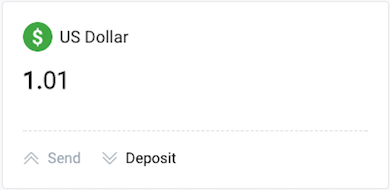
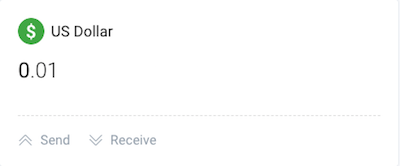
Updates

Changed region(s): [[0.0308, 0.0904, 0.3385, 0.2711], [0.0308, 0.7831, 0.4615, 0.8735], [0.0308, 0.3614, 0.1846, 0.4819]]

diff --git a/ru/waves-client/transfers-and-gateways/eur-usd-transfers.md b/ru/waves-client/transfers-and-gateways/eur-usd-transfers.md
@@ -1,34 +1,37 @@
-# How to send and receive fiat money (EUR, USD)
+# **Как ввести или вывести EUR/USD**.
 
-## How to register in the Euro/USD gateways
+Waves Lite client позволяет хранить и переводить евро и доллары с помощью Waves блокчейна. Данный сервис предоставляется через централизованный Waves сервис.
+Euro/USD переводятся через банковский перевод (SEPA/Wire transfer), затем пользователь получает токен wEURO/wUSD по средствам Waves блокчейна. Токен wEURO/wUSD эквивалентен реальному Euro/USD.
 
-The verification process is handled by [IDnow](https://www.idnow.eu/) service.
+## **Как зарегистрироваться в EURO или USD шлюзе**.
 
-First of all, you should check that your country is eligible for verification and which document is needed. You will find all these information [here](https://wavesplatform.userecho.com/topics/1304-list-of-accepted-countries-and-documents-for-verification/).
+Процесс верификации выполняется на стороне [IDnow](https://www.idnow.eu/) верификатора.
 
-Open your wallet, on the main page click on the **Deposit** button in the EURO / USD sections, then click on your personal link Get verified button.
+Прежде чем начать процесс верификации, пожалуйста проверьте [список](https://wavesplatform.userecho.com/topics/1304-list-of-accepted-countries-and-documents-for-verification/) поддерживаемых стран и принимаемые виды документов.
 
-![](/_assets/fiat_transfers_01.png)
+Откройте ваше Waves приложение, на главной странице нажмите на кнопку **Получить**. Затем выбирите раздел **Банк** и нажмите на свою персональную ссылку, кнопка **Пройти идентификацию**.
 
-![](/_assets/fiat_transfers_02.png)
+![](/ru/_assets/fiat_transfers_01.png)
 
-A Website will open in your browser. Asking you to enter personal information.
+![](/ru/_assets/fiat_transfers_02.png)
 
-![](/_assets/fiat_transfers_03.png)
+В вашем браузере откроется веб-сайт на котором необходимо ввести личную информацию.
 
-Enter the form with your ID information and submit it. After that, this page will open. you will have to choose between webcam or mobile app to make a face-to-face interview.
+![](/ru/_assets/fiat_transfers_03.png)
 
-![](/_assets/fiat_transfers_04.png)
+Заполните форму с вашим ID/паспортом и отправьте ее. После этого откроется следующая страница. Выберите верификацию Computer & webcam.
 
-Once you have chosen and logged in you will have to wait that an Indow's collaborator takes you for a face-to-face. He will ask you some information about you and verify the authenticity of your ID documents.
+**Важно**: Для прохождения верификации требуются исправная вэбкамера и микрофон.
 
-**You will need to have your ID with you during the interview**.
+![](/ru/_assets/fiat_transfers_04.png)
 
-Once it's done you will have to enter a personal code send to you. And confirm the end of the interview.
-And it's done, you will have to wait 2 or 3 days for the confirmation process to be completed.
-You will be notified by e-mail when you will be eligible for Euro/USD gateway. It will be sent from support@coinomat.com and looked like that:
+После того, как вы произвели выбор и осуществили вход, вам необходимо подождать пока сотрудник Idnow не пригласит вас на личное собеседование. Он попросит вас предоставить некоторую дополнительную информацию о вас и проверит подлинность предъявляемых идентификационных документов.
 
-**E-mail confirmation**
+После этого вам необходимо ввести персональный код, который был выслан вам ранее, и подтвердить окончание интервью, вам придется подождать 2 или 3 дня, для завершения процесса подтверждения.
+
+**Важно**: Письма с подтверждением прохождения верификации и данными для ввода будут отправлены с support@coinomat.com.
+
+**E-mail подтверждение:**
 
 ```
 Object:
@@ -79,18 +82,24 @@ Best regards,
 Coinomat Support
 ```
 
-Verify that your e-mail comes from the right source - **support@coinomat.com** and the object is **IDnow <your Waves adress>**.
+Убедитесь, вы получили электронное письмо от support@coinomat.com а тема - IDnow <ваш Waves адрес>.
+Если все хорошо, вы можете внести депозит, следуя шагам, описанным в полученном электронном письме.
 
-If all is good, you can make a deposit following the step described in the email you just receive and above.
+**Примечание**: Вам необходимо совершить хотя бы один ввод средств чтобы получить возможность вывода.
 
-## How to withdraw Euro/USD
+**Важно!**
 
-If you've been verified and deposited with Euro or USD, you can withdraw Euro or USD back to your bank account.
+Вы должны заполнить поле сведений о платеже: **CNM-<Ваш Waves адрес>**. Если вы этого не сделаете, мы не сможем пополнить ваш аккаунт. **ПРИМЕР**: CNM-3P8QhagLR9iPzJW42U8v163JACyKVdFH5hm
+Вы можете использовать только **тот же Waves адрес, который вы использовали для KYC & ALM запросов**. Если вы допустили ошибку или указали другой Waves адрес, мы не сможем пополнить ваш аккаунт. Если все в порядке средства будут доступны в течении 2-5 рабочих дней. Наш KYC & AML отдел может временно заблокировать подозрительные транзакции на более длительный период, а также запрашивать дополнительные документы, подтверждающие происхождение средств.
 
-**Notice**: First you need to make at least one deposit to get access for withdrawals.
+## **Как вывести Euro/USD**.
 
-To do so please make a SEND transaction to the Waves address **3P7qtv5Z7AMhwyvf5sM6nLuWWypyjVKb7Us**
+Чтобы начать процесс вывода средств нажмите на кнопку **Отправить** в EURO или US DOLLAR секциях, в зависимости от того что вы хотите вывести и отправьте необходимую сумму на Waves адрес шлюза - **3P7qtv5Z7AMhwyvf5sM6nLuWWypyjVKb7Us**.
 
-Fees are 1% from the amount transferred. The minimum amount is 50 USD/Euro.
+![](/ru/_assets/fiat_transfers_01.png)
 
-If you have any questions, please send an email to: **support@coinomat.com**
+Минимальная сумма вывода равна 100 EURO/USD с комиссией 1% от суммы снятия. Банковский перевод может занимать до 3-х рабочих дней, но в некоторых случаях до 5-ти рабочих дней. Более подробные условия доступны на сайте процессингового шлюза [Coinomat](https://coinomat.com/).
+
+**Важно**: Для вывода EUR/USD ваш аккаунт также должен быть верифицирован. Средства будут отправлены строго на банковские реквизиты с которых был сделан ввод средств.
+
+При возникновении проблем с верификацией или обработкой платежей, пожалуйста отправьте ваш запрос на официальный адрес поддержки Coinomat - support@coinomat.com

diff --git a/en/waves-client/transfers-and-gateways/eur-usd-transfers.md b/en/waves-client/transfers-and-gateways/eur-usd-transfers.md
@@ -6,19 +6,19 @@ The verification process is handled by [IDnow](https://www.idnow.eu/) service.
 
 First of all, you should check that your country is eligible for verification and which document is needed. You will find all these information [here](https://wavesplatform.userecho.com/topics/1304-list-of-accepted-countries-and-documents-for-verification/).
 
-Open your wallet, on the main page click on the **Deposit** button in the EURO / USD sections, then click on your personal link Get verified button.
+Open your wallet. On the main page click on the **Receive** button in the EURO / USD sections, choose **Bank** and click on your personal link **Get verified button**.
 
-![](/_assets/fiat_transfers_01.png)
+![](/en/_assets/fiat_transfers_01.png)
 
-![](/_assets/fiat_transfers_02.png)
+![](/en/_assets/fiat_transfers_02.png)
 
 A Website will open in your browser. Asking you to enter personal information.
 
-![](/_assets/fiat_transfers_03.png)
+![](/en/_assets/fiat_transfers_03.png)
 
 Enter the form with your ID information and submit it. After that, this page will open. you will have to choose between webcam or mobile app to make a face-to-face interview.
 
-![](/_assets/fiat_transfers_04.png)
+![](/en/_assets/fiat_transfers_04.png)
 
 Once you have chosen and logged in you will have to wait that an Indow's collaborator takes you for a face-to-face. He will ask you some information about you and verify the authenticity of your ID documents.
 
@@ -91,6 +91,8 @@ If you've been verified and deposited with Euro or USD, you can withdraw Euro or
 
 To do so please make a SEND transaction to the Waves address **3P7qtv5Z7AMhwyvf5sM6nLuWWypyjVKb7Us**
 
-Fees are 1% from the amount transferred. The minimum amount is 50 USD/Euro.
+![](/en/_assets/fiat_transfers_01.png)
+
+Fees are 1% from the amount transferred. The minimum amount is 50 USD/Euro. More detailed conditions are available on the official gateaway website [Coinomat](https://coinomat.com/).
 
 If you have any questions, please send an email to: **support@coinomat.com**
